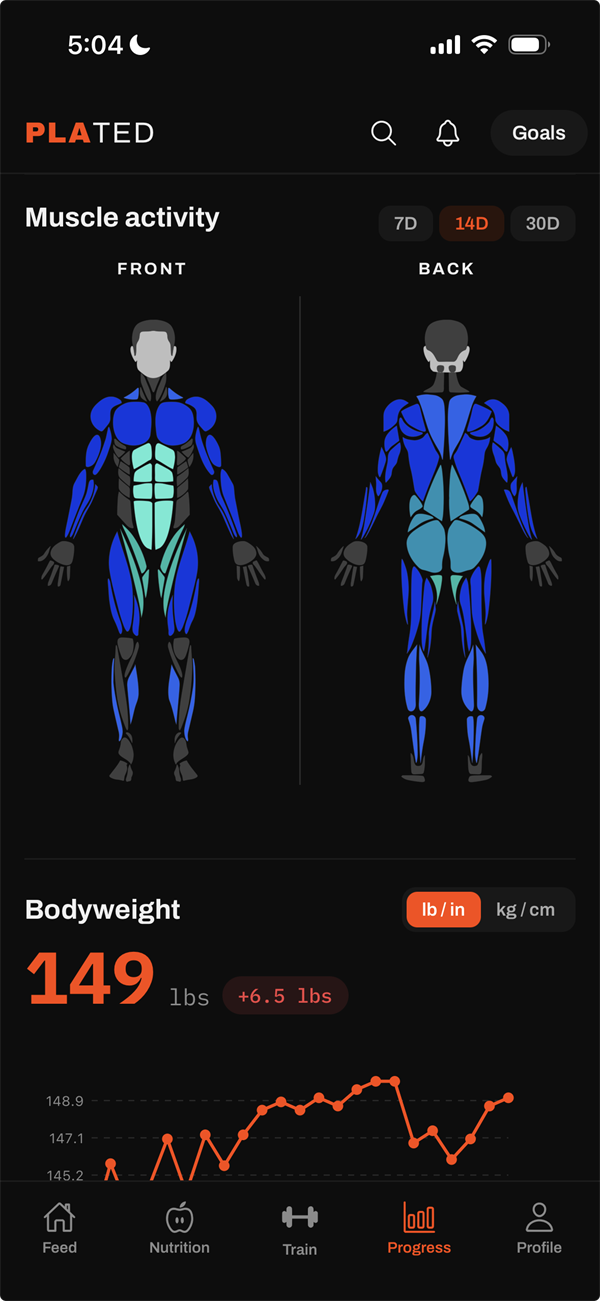
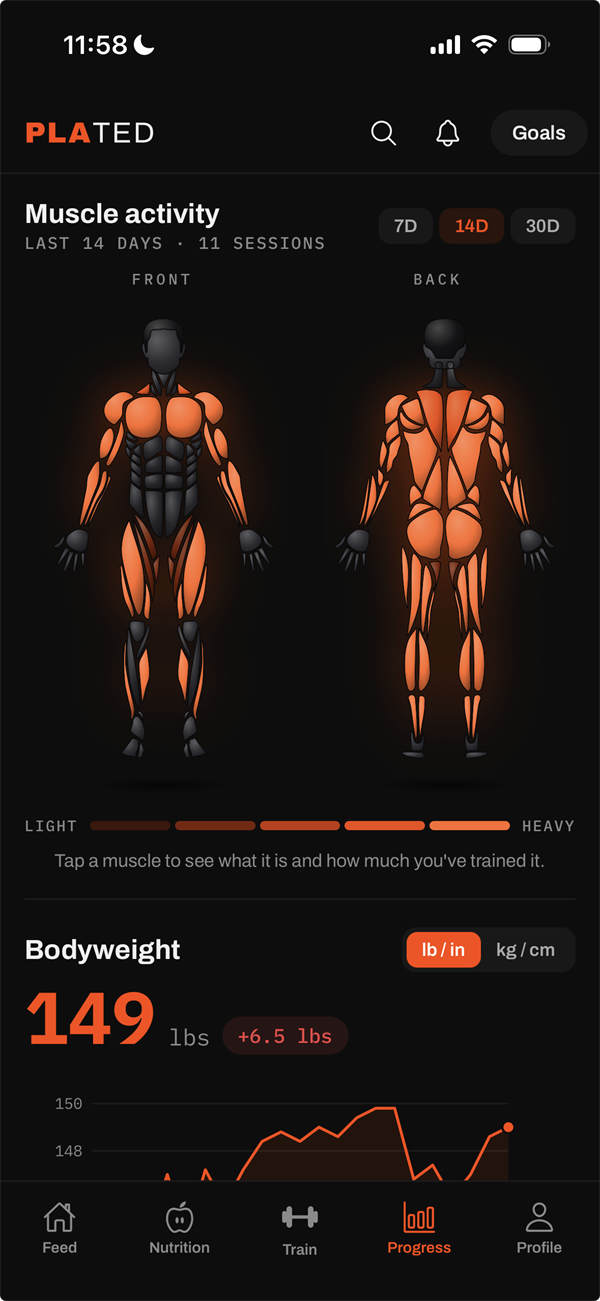
Home page: Train, muscle heatmap and Feed screenshots from the 1.0.5 captures
The three screens that changed since the 1.0.4 set: the one-row exercise
card on Train, the orange muscle heatmap, and a feed post with a square
photo. Regenerated by the app repo's publish-screenshots.js. The other
five captures are the same in both sets.

The alt text of those three images on the home page now describes what
they show.

diff --git a/index.html b/index.html
@@ -466,7 +466,7 @@
             <li>Live heart rate from a strap, watch or band</li>
             <li>Pro suggests your next weight and reps</li>
           </ul>
-          <div class="phone tour-inline"><img src="/assets/screens/train.png" alt="Plated&rsquo;s Train tab mid-workout: 6 minutes in, 1,830 lbs moved, live heart rate 59 bpm, 2 of 27 sets done, and a Lat Pulldown suggesting 240 lbs for 9 reps, with two sets ticked." width="600" height="1301" loading="lazy"></div>
+          <div class="phone tour-inline"><img src="/assets/screens/train.png" alt="Plated&rsquo;s Train tab at the start of a Push Day workout: the timer at 12 seconds, live heart rate 58 bpm, 0 of 12 sets done, and an Incline Bench Press with three sets of 50 lbs for 12 reps and a suggested next set of 55 lbs for 8." width="600" height="1301" loading="lazy"></div>
         </article>
 
         <article class="tour-step" data-shot="nutrition">
@@ -521,7 +521,7 @@
             <li>Spot the muscles you&rsquo;re missing</li>
             <li>Your bodyweight trend right below</li>
           </ul>
-          <div class="phone tour-inline"><img src="/assets/screens/muscle.png" alt="Plated&rsquo;s muscle heatmap, front and back, over the last 14 days, above a bodyweight chart at 149 lbs, up 6.5 lbs." width="600" height="1301" loading="lazy"></div>
+          <div class="phone tour-inline"><img src="/assets/screens/muscle.png" alt="Plated&rsquo;s muscle heatmap over the last 14 days and 11 sessions: front and back figures with the trained muscles shaded orange from light to heavy, above a bodyweight chart at 149 lbs, up 6.5 lbs." width="600" height="1301" loading="lazy"></div>
         </article>
 
         <article class="tour-step" data-shot="progress">
@@ -542,7 +542,7 @@
             <li>Follow friends and keep each other honest</li>
             <li>Go private any time</li>
           </ul>
-          <div class="phone tour-inline"><img src="/assets/screens/profile.png" alt="Plated&rsquo;s feed: workouts shared by @platedfitness, each with its volume, time and sets, PR and heart-rate badges, and buttons to see the exercises, like, comment and save the workout." width="600" height="1301" loading="lazy"></div>
+          <div class="phone tour-inline"><img src="/assets/screens/profile.png" alt="Plated&rsquo;s feed: a workout shared by @platedfitness with a gym photo, Quad day at 37,530 lbs volume, 119 minutes and 24 sets, badges for 2 PRs and 136 avg bpm, and a button to see the exercises." width="600" height="1301" loading="lazy"></div>
         </article>
 
       </div>
